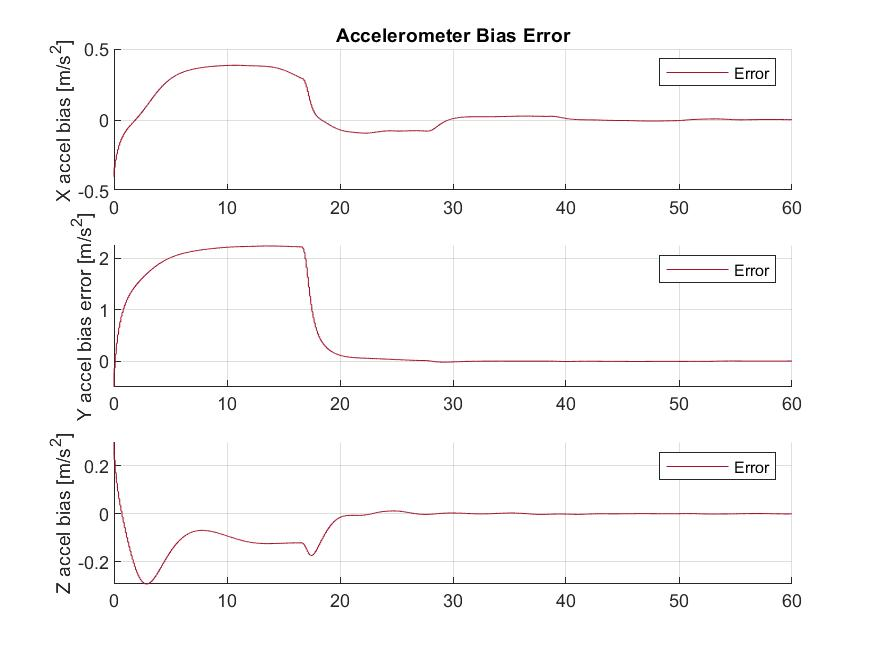
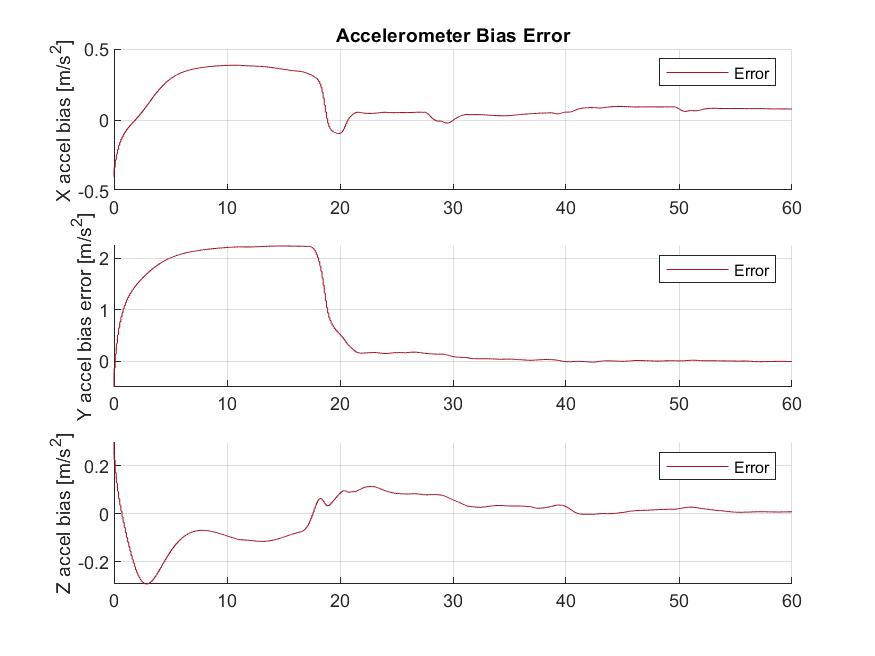
Very ymse implementation of acc-aiding at stand-still

diff --git a/ESKF/MESKF_sola.m b/ESKF/MESKF_sola.m
@@ -51,7 +51,7 @@ omega_b_imu_0 = [0 0 0]';
 bacc_b_ins = [0 0 0]';
 bars_b_ins = [0 0 0]';
 E_prev = zeros(18,12);
-ErrorStateKalman_sola(r_b_1, r_b_2, r_b_3, E_prev,0, 0, f_low, 1, f_b_imu_0, omega_b_imu_0, g_n_nb, x_ins);
+ErrorStateKalman_sola(0,r_b_1, r_b_2, r_b_3, E_prev,0, 0, f_low, 1, f_b_imu_0, omega_b_imu_0, g_n_nb, x_ins);
 
 % init
 x_ins(1:3) = [5;6;7]; % for testing av ESKF
@@ -67,11 +67,17 @@ C_ins = [I3 Z3 Z3 Z3 Z3
      
      
 count = 10;
+race_started = false;
 
 for k = 1:N
    t = k * h;
    time_data(k) = t;
    g_err_data(1:3,k) = g_n_nb;
+   
+   if ((p_n_nb(1,k) - p_n_nb(1,1)) > 0.001) && (race_started == false)
+       race_started = true
+       disp(t);
+   end
    
    % split state vector
    p_n_ins = x_ins(1:3);
@@ -162,10 +168,14 @@ for k = 1:N
 %         delta_y = [(p_gnss_1 - p_hat_1) ; (p_gnss_2 - p_hat_2); (p_gnss_3 - p_hat_3); delta_theta]; 
 %         delta_y = [(p_gnss_1 - p_hat_1) ; (p_gnss_2 - p_hat_2); delta_theta]; 
 %         delta_y = [(p_gnss_1 - p_hat_1); (p_gnss_2 - p_hat_2)];
-        delta_y = [(p_gnss_1 - p_hat_1) ; (p_gnss_2 - p_hat_2) ; (v_gss - v_hat) ; (bl - bl_hat); (f_imu - f_hat)];
+        delta_y = [(p_gnss_1 - p_hat_1) ; (p_gnss_2 - p_hat_2) ; (v_gss - v_hat) ; (bl - bl_hat)];
+        
+        if (race_started == false)
+            delta_y = [delta_y ; (f_imu - f_hat)];
+        end
         
         % compute error state with ESKF
-        [delta_x, E_prev] = ErrorStateKalman_sola(r_b_1, r_b_2,r_b_3, E_prev, delta_y, R_nb_ins, f_low, 0, f_b_imu(:,k), omega_b_imu(:,k), g_n_nb, x_ins);
+        [delta_x, E_prev] = ErrorStateKalman_sola(race_started, r_b_1, r_b_2,r_b_3, E_prev, delta_y, R_nb_ins, f_low, 0, f_b_imu(:,k), omega_b_imu(:,k), g_n_nb, x_ins);
        
         % inject error state into nominal state
         x_ins(1:9) = x_ins(1:9) + delta_x(1:9);

diff --git a/ESKF/ErrorStateKalman_sola.m b/ESKF/ErrorStateKalman_sola.m
@@ -1,4 +1,4 @@
-function [delta_x, E] = ErrorStateKalman_sola(r_b_1, r_b_2, r_b_3, E_prev,delta_y, R_nb_hat, f_low, init, f_b_imu, omega_b_imu, g_n_nb, x_n_ins)
+function [delta_x, E] = ErrorStateKalman_sola(race_started, r_b_1, r_b_2, r_b_3, E_prev,delta_y, R_nb_hat, f_low, init, f_b_imu, omega_b_imu, g_n_nb, x_n_ins)
     
     deg2rad = pi/180;   
     
@@ -16,7 +16,7 @@ function [delta_x, E] = ErrorStateKalman_sola(r_b_1, r_b_2, r_b_3, E_prev,delta_
     q_n_ins = x_n_ins(10:13);
     q_n_ins = q_n_ins/norm(q_n_ins);
     bars_b_ins = x_n_ins(14:16);
-
+        
     persistent P_hat Q R  
     if init
         std_pos = 2;
@@ -101,9 +101,17 @@ function [delta_x, E] = ErrorStateKalman_sola(r_b_1, r_b_2, r_b_3, E_prev,delta_
 %                        Z3         Z3          Z3                      I3          Z3       Z3]; % delta_theta
                        Z3         Z3          Z3  -R_nb_hat*Smtrx(r_b_2-r_b_1)          Z3          Z3   % baseline
                        Z3         Z3          I3     -Smtrx(R_nb_hat' * g_n_nb)          Z3  -R_nb_hat']; % acc
+                   
+          if (race_started == true)
+             H = H(1:end-3, :);
+             if (size(R,1) == 13)
+                R = R(1:end-3, 1:end-3);
+             end
+          end
+              
                
 %          M = rref(obsv(A,H))  
-         rank(obsv(A,H))
+         rank(obsv(A,H));
 
           
          % Discrete-time model
